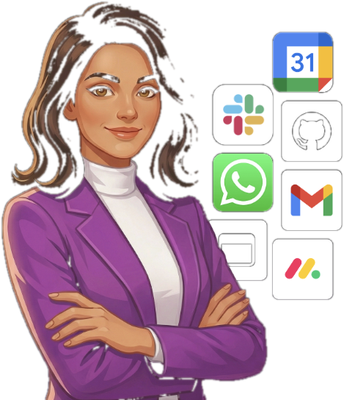
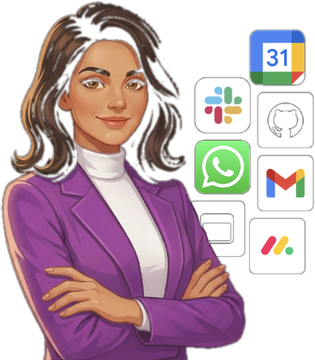
Sync latest index.html and hero image from gh-pages

diff --git a/index.html b/index.html
@@ -220,19 +220,21 @@ footer a{color:var(--accent)}
   </div>
 </nav>
 
-<!-- HERO (compact) -->
+<!-- HERO -->
 <div class="hero">
-  <div style="margin-bottom:16px;animation:fadeSlideUp .6s ease both">
-    <img src="heleni.jpg" alt="Heleni" style="width:80px;height:80px;border-radius:50%;border:2px solid var(--accent);object-fit:cover">
-  </div>
-  <h1>Heleni<br><span class="accent">AI Personal Assistant</span></h1>
-  <p class="hero-sub">
-    Execution-first AI PA, running 24/7 in production. These are her skills, learnings, and the playbooks that keep her sharp.
-  </p>
-  <div class="hero-actions">
-    <button class="btn btn-primary" onclick="switchTab('skills')">Browse Skills</button>
-    <button class="btn btn-outline" onclick="switchTab('learnings')">View Learnings</button>
-    <a class="btn btn-outline" href="https://github.com/netanel-abergel/pa-skills" target="_blank">Contribute</a>
+  <div style="display:flex;align-items:center;justify-content:center;gap:36px;flex-wrap:wrap;animation:fadeSlideUp .6s ease both">
+    <img src="heleni-hero.png" alt="Heleni — AI Personal Assistant" style="width:180px;height:auto;flex-shrink:0;filter:drop-shadow(0 8px 24px rgba(0,0,0,.4))">
+    <div style="text-align:left">
+      <h1 style="text-align:left">Heleni <span class="accent">| AI</span><br><span class="accent">Personal Assistant</span></h1>
+      <p class="hero-sub" style="text-align:left;margin:14px 0 20px">
+        Execution-first AI PA, running 24/7 in production.<br>These are her skills, learnings, and playbooks.
+      </p>
+      <div class="hero-actions" style="justify-content:flex-start">
+        <button class="btn btn-primary" onclick="switchTab('skills')">Browse Skills</button>
+        <button class="btn btn-outline" onclick="switchTab('learnings')">View Learnings</button>
+        <a class="btn btn-outline" href="https://github.com/netanel-abergel/pa-skills" target="_blank">Contribute</a>
+      </div>
+    </div>
   </div>
 </div>
 
